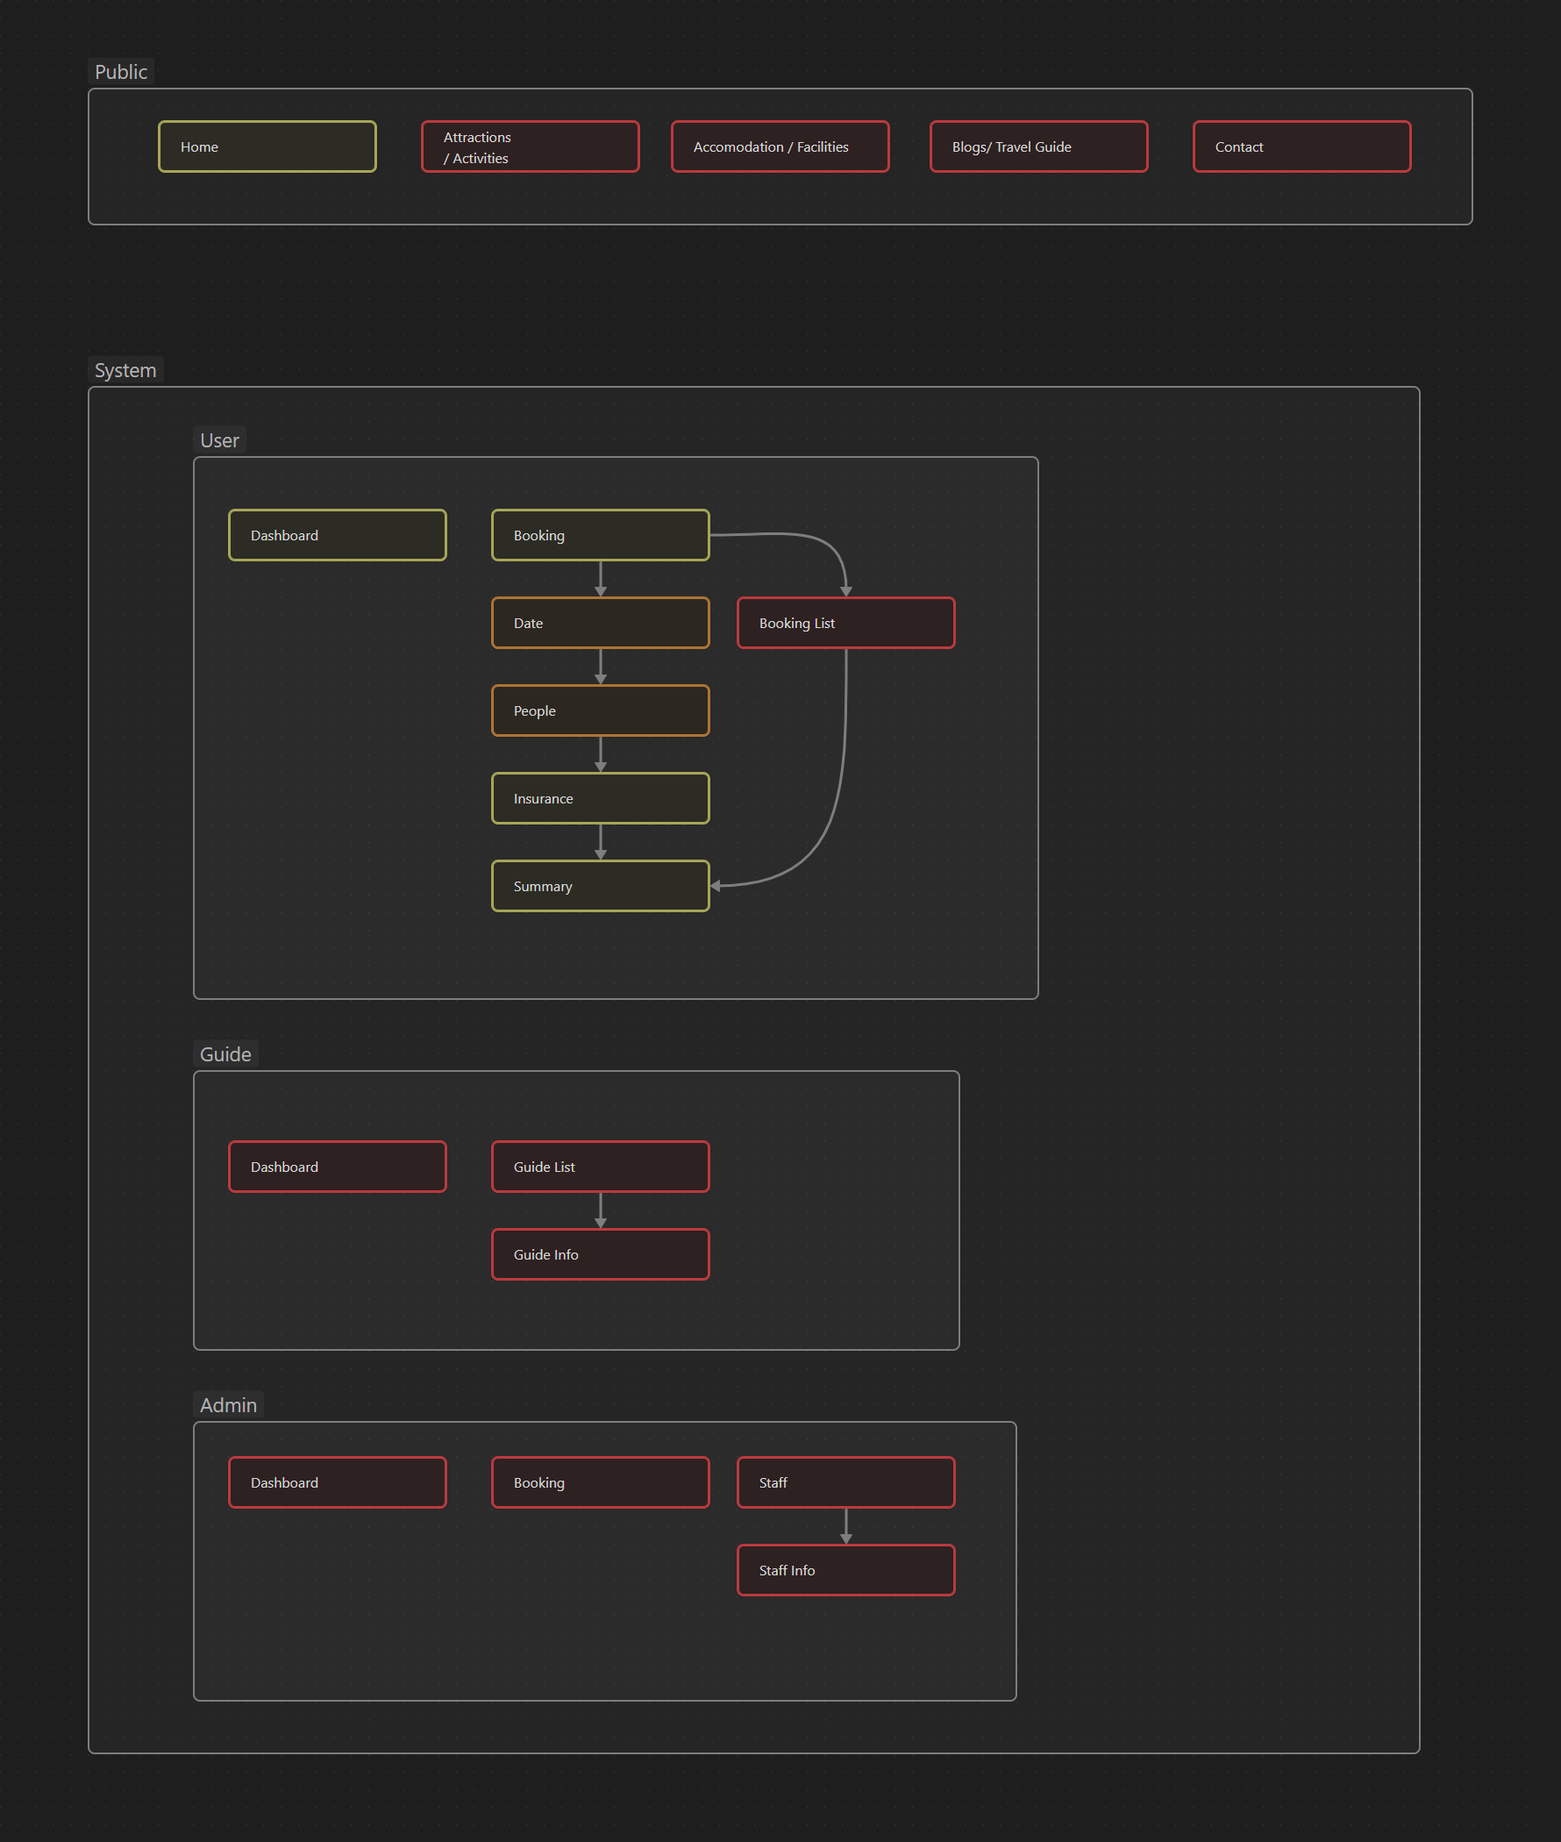
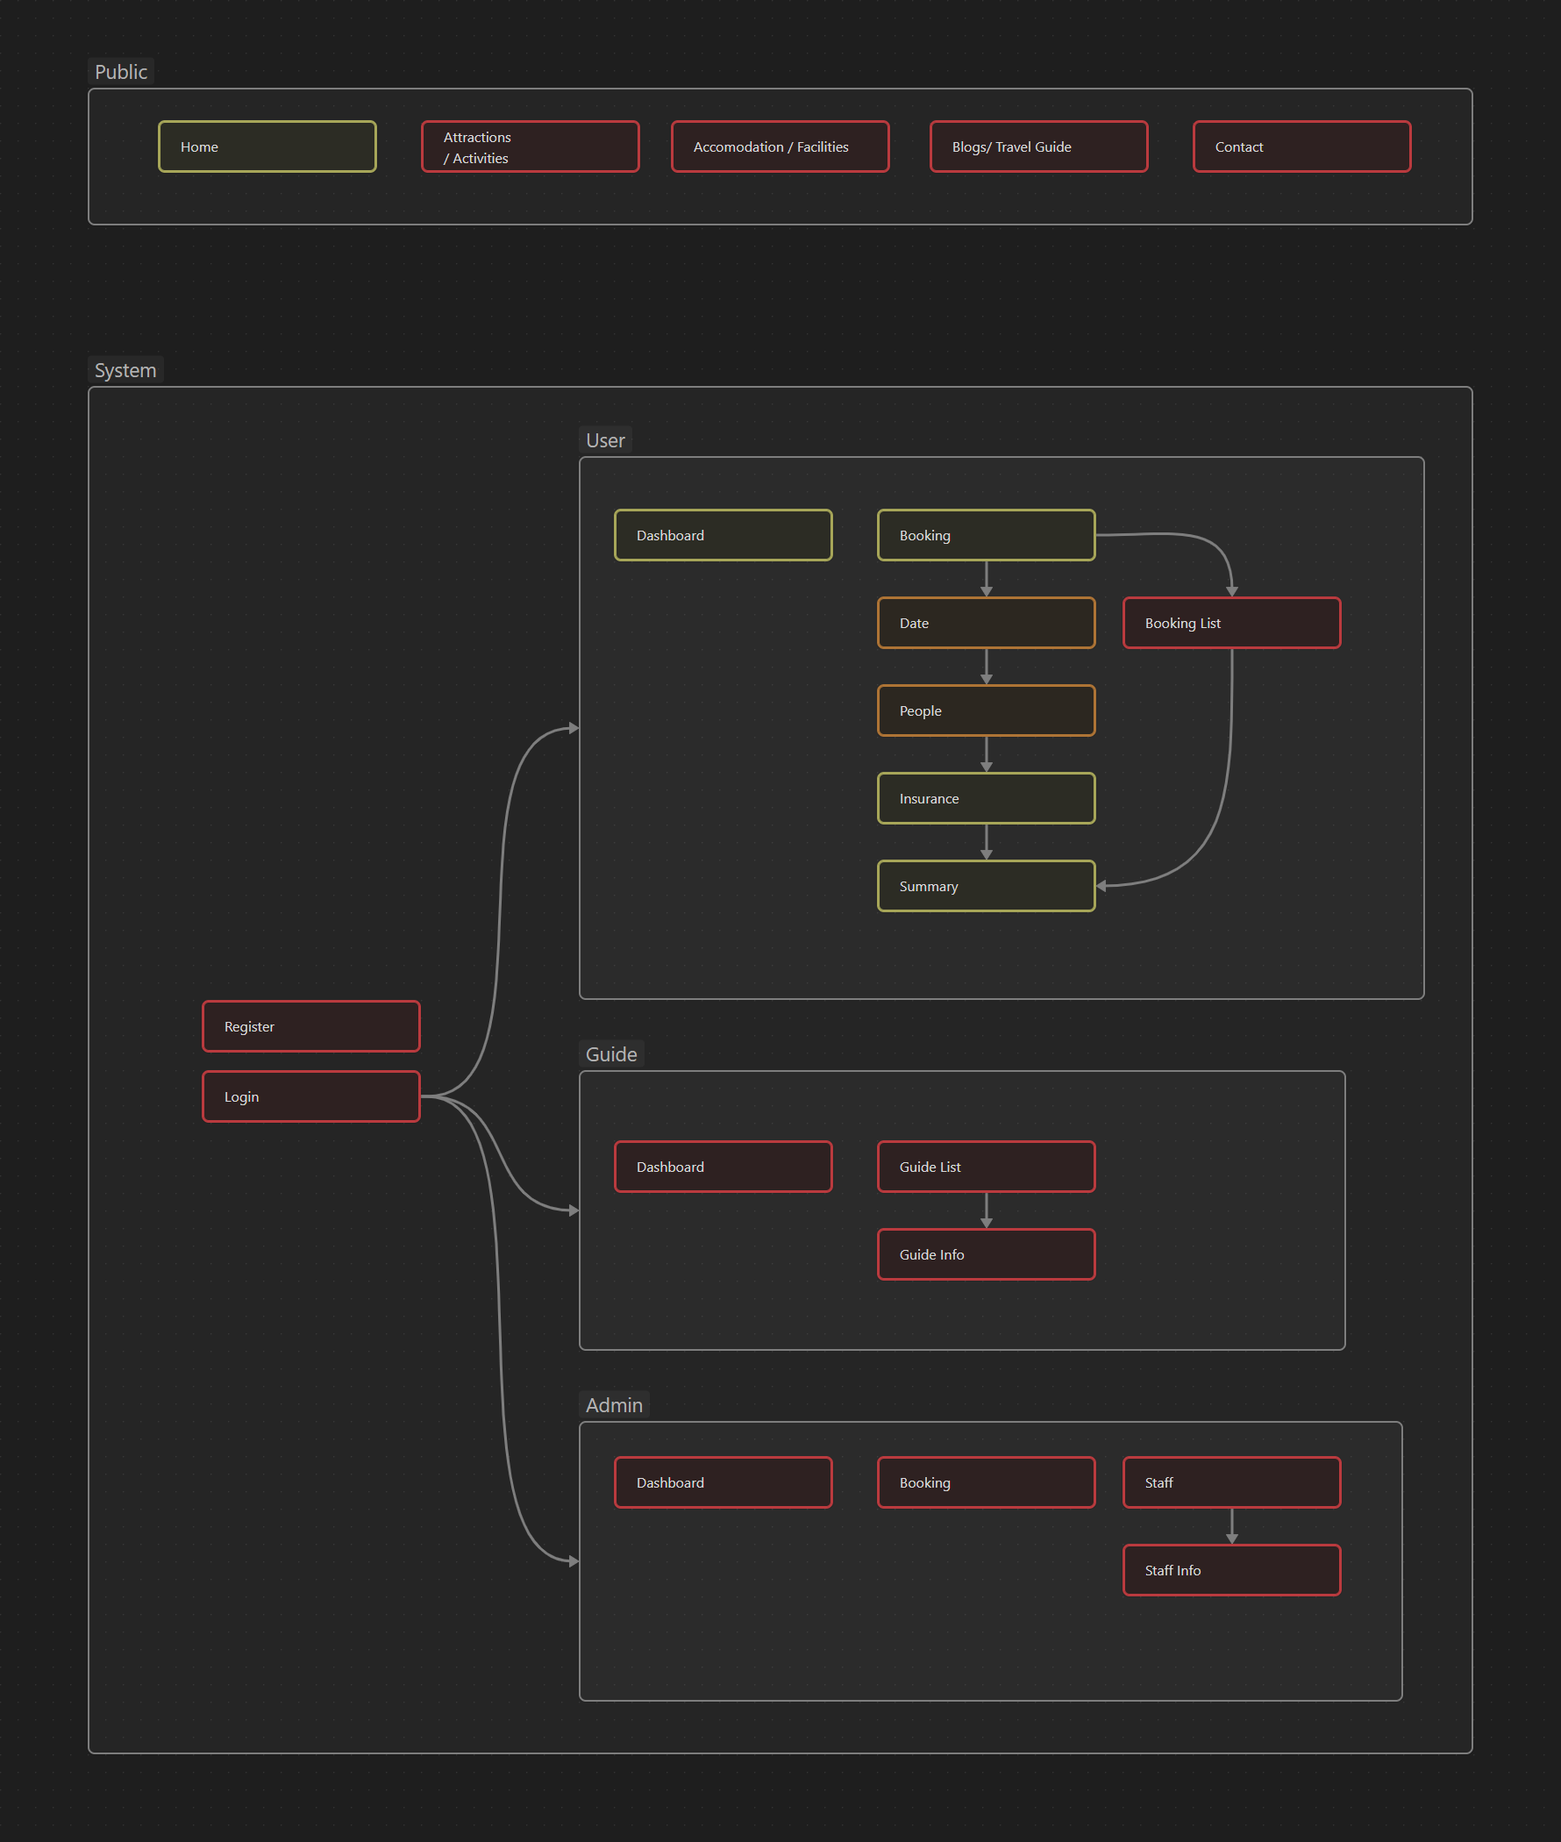
forgot to put register login

diff --git a/views/system/user/book/step2.php b/views/system/user/book/step2.php
@@ -68,50 +68,69 @@
                       </div>
                     </div>
                     <?php
+                    // Query to fetch user details (only once)
+                    $sql = "SELECT u.username, u.email, ud.name, ud.ic, ud.phone, ud.address
+        FROM users u
+        LEFT JOIN user_details ud ON u.id = ud.user_id
+        WHERE u.id = '1'";
+                    $result = $conn->query($sql);
+                    $row = $result->fetch_assoc();
+
+                    // Get the booking people count
                     $count = $_SESSION['booking']['people_count'];
+
+                    // Loop through all people for the booking
                     for ($i = 1; $i <= $count; $i++) {
 
+                      // If it's the first iteration, use data from the database
+                      if ($i == 1) {
+                        $name = isset($_SESSION['booking']['people'][$i]['name']) ? $_SESSION['booking']['people'][$i]['name'] : $row['name'];
+                        $ic = isset($_SESSION['booking']['people'][$i]['ic']) ? $_SESSION['booking']['people'][$i]['ic'] : $row['ic'];
+                        $phone = isset($_SESSION['booking']['people'][$i]['phone']) ? $_SESSION['booking']['people'][$i]['phone'] : $row['phone'];
+                        $email = isset($_SESSION['booking']['people'][$i]['email']) ? $_SESSION['booking']['people'][$i]['email'] : $row['email'];
+                        $address = isset($_SESSION['booking']['people'][$i]['address']) ? $_SESSION['booking']['people'][$i]['address'] : $row['address'];
+                      } else {
+                        // For subsequent iterations, use session data
+                        $name = isset($_SESSION['booking']['people'][$i]['name']) ? $_SESSION['booking']['people'][$i]['name'] : '';
+                        $ic = isset($_SESSION['booking']['people'][$i]['ic']) ? $_SESSION['booking']['people'][$i]['ic'] : '';
+                        $phone = isset($_SESSION['booking']['people'][$i]['phone']) ? $_SESSION['booking']['people'][$i]['phone'] : '';
+                        $email = isset($_SESSION['booking']['people'][$i]['email']) ? $_SESSION['booking']['people'][$i]['email'] : '';
+                        $address = isset($_SESSION['booking']['people'][$i]['address']) ? $_SESSION['booking']['people'][$i]['address'] : '';
+                      }
+
                       ?>
+
                       <div class="multisteps-form__content">
                         <div id="form-container">
                           <div class="row mt-3 form-group">
                             <div class="col-12 col-sm-8 mt-4 mt-sm-0 text-start">
                               <label>Name</label>
-                              <input class="  form-control mb-3" type="text" placeholder="Eg. Michael"
-                                name="name-<?php echo $i ?>" 
-                                value="<?php echo isset($_SESSION['booking']['people'][$i]['name']) ? $_SESSION['booking']['people'][$i]['name'] : ''; ?>"
-                                >
+                              <input class="form-control mb-3" type="text" placeholder="Eg. Michael"
+                                name="name-<?php echo $i ?>" value="<?php echo htmlspecialchars($name); ?>">
+
                               <label>Identity Card Number</label>
-                              <input class=" form-control mb-3" type="text" placeholder="Eg. Tomson"
-                                name="ic-<?php echo $i ?>"
-                                value="<?php echo isset($_SESSION['booking']['people'][$i]['ic']) ? $_SESSION['booking']['people'][$i]['ic'] : ''; ?>"
-                                >
+                              <input class="form-control mb-3" type="text" placeholder="Eg. Tomson"
+                                name="ic-<?php echo $i ?>" value="<?php echo htmlspecialchars($ic); ?>">
+
                               <label>Phone</label>
-                              <input class="  form-control" type="text" placeholder="011 23141414"
-                                name="phone-<?php echo $i ?>"
-                                value="<?php echo isset($_SESSION['booking']['people'][$i]['phone']) ? $_SESSION['booking']['people'][$i]['phone'] : ''; ?>"
-                                >
+                              <input class="form-control" type="text" placeholder="011 23141414"
+                                name="phone-<?php echo $i ?>" value="<?php echo htmlspecialchars($phone); ?>">
+
                               <label>Email Address</label>
-                              <input class="  form-control" type="text" placeholder="Eg. soft@dashboard.com"
-                                name="email-<?php echo $i ?>"
-                                value="<?php echo isset($_SESSION['booking']['people'][$i]['email']) ? $_SESSION['booking']['people'][$i]['email'] : ''; ?>"
-                                >
+                              <input class="form-control" type="text" placeholder="Eg. soft@dashboard.com"
+                                name="email-<?php echo $i ?>" value="<?php echo htmlspecialchars($email); ?>">
+
                               <label>Home Address</label>
-                              <input class=" form-control" type="text" placeholder="Eg. soft@dashboard.com"
-                                name="address-<?php echo $i ?>"
-                                value="<?php echo isset($_SESSION['booking']['people'][$i]['address']) ? $_SESSION['booking']['people'][$i]['address'] : ''; ?>"
-                                >
+                              <input class="form-control" type="text" placeholder="Eg. soft@dashboard.com"
+                                name="address-<?php echo $i ?>" value="<?php echo htmlspecialchars($address); ?>">
                             </div>
                           </div>
                         </div>
-                        <!-- 
-                      <div class="button-row d-flex mt-4">
-                        <button class="btn bg-gradient-dark ms-auto mb-0 js-btn-next" type="button" title="Next"
-                          onclick="addForm()">Add</button>
-                      </div> -->
                       </div>
 
-                    <?php } ?>
+                      <?php
+                    }
+                    ?>
                     <div class="button-row d-flex mt-4">
                       <button type="submit" class="btn bg-gradient-dark ms-auto mb-0  "
                         name="confirmpeople">Save</button>

diff --git a/views/system/template/script.php b/views/system/template/script.php
@@ -12,87 +12,87 @@
   <script src="<?php echo $rootPath; ?>/assets/js/plugins/jquery-3.7.1.js"></script>
   <script src="<?php echo $rootPath; ?>/assets/js/plugins/moment.min.js"></script>
   <script>
-    var ctx1 = document.getElementById("chart-line").getContext("2d");
+    // var ctx1 = document.getElementById("chart-line").getContext("2d");
 
-    var gradientStroke1 = ctx1.createLinearGradient(0, 230, 0, 50);
+    // var gradientStroke1 = ctx1.createLinearGradient(0, 230, 0, 50);
 
-    gradientStroke1.addColorStop(1, 'rgba(94, 114, 228, 0.2)');
-    gradientStroke1.addColorStop(0.2, 'rgba(94, 114, 228, 0.0)');
-    gradientStroke1.addColorStop(0, 'rgba(94, 114, 228, 0)');
-    new Chart(ctx1, {
-      type: "line",
-      data: {
-        labels: ["Apr", "May", "Jun", "Jul", "Aug", "Sep", "Oct", "Nov", "Dec"],
-        datasets: [{
-          label: "Mobile apps",
-          tension: 0.4,
-          borderWidth: 0,
-          pointRadius: 0,
-          borderColor: "#5e72e4",
-          backgroundColor: gradientStroke1,
-          borderWidth: 3,
-          fill: true,
-          data: [50, 40, 300, 220, 500, 250, 400, 230, 500],
-          maxBarThickness: 6
+    // gradientStroke1.addColorStop(1, 'rgba(94, 114, 228, 0.2)');
+    // gradientStroke1.addColorStop(0.2, 'rgba(94, 114, 228, 0.0)');
+    // gradientStroke1.addColorStop(0, 'rgba(94, 114, 228, 0)');
+    // new Chart(ctx1, {
+    //   type: "line",
+    //   data: {
+    //     labels: ["Apr", "May", "Jun", "Jul", "Aug", "Sep", "Oct", "Nov", "Dec"],
+    //     datasets: [{
+    //       label: "Mobile apps",
+    //       tension: 0.4,
+    //       borderWidth: 0,
+    //       pointRadius: 0,
+    //       borderColor: "#5e72e4",
+    //       backgroundColor: gradientStroke1,
+    //       borderWidth: 3,
+    //       fill: true,
+    //       data: [50, 40, 300, 220, 500, 250, 400, 230, 500],
+    //       maxBarThickness: 6
 
-        }],
-      },
-      options: {
-        responsive: true,
-        maintainAspectRatio: false,
-        plugins: {
-          legend: {
-            display: false,
-          }
-        },
-        interaction: {
-          intersect: false,
-          mode: 'index',
-        },
-        scales: {
-          y: {
-            grid: {
-              drawBorder: false,
-              display: true,
-              drawOnChartArea: true,
-              drawTicks: false,
-              borderDash: [5, 5]
-            },
-            ticks: {
-              display: true,
-              padding: 10,
-              color: '#fbfbfb',
-              font: {
-                size: 11,
-                family: "Open Sans",
-                style: 'normal',
-                lineHeight: 2
-              },
-            }
-          },
-          x: {
-            grid: {
-              drawBorder: false,
-              display: false,
-              drawOnChartArea: false,
-              drawTicks: false,
-              borderDash: [5, 5]
-            },
-            ticks: {
-              display: true,
-              color: '#ccc',
-              padding: 20,
-              font: {
-                size: 11,
-                family: "Open Sans",
-                style: 'normal',
-                lineHeight: 2
-              },
-            }
-          },
-        },
-      },
-    });
+    //     }],
+    //   },
+    //   options: {
+    //     responsive: true,
+    //     maintainAspectRatio: false,
+    //     plugins: {
+    //       legend: {
+    //         display: false,
+    //       }
+    //     },
+    //     interaction: {
+    //       intersect: false,
+    //       mode: 'index',
+    //     },
+    //     scales: {
+    //       y: {
+    //         grid: {
+    //           drawBorder: false,
+    //           display: true,
+    //           drawOnChartArea: true,
+    //           drawTicks: false,
+    //           borderDash: [5, 5]
+    //         },
+    //         ticks: {
+    //           display: true,
+    //           padding: 10,
+    //           color: '#fbfbfb',
+    //           font: {
+    //             size: 11,
+    //             family: "Open Sans",
+    //             style: 'normal',
+    //             lineHeight: 2
+    //           },
+    //         }
+    //       },
+    //       x: {
+    //         grid: {
+    //           drawBorder: false,
+    //           display: false,
+    //           drawOnChartArea: false,
+    //           drawTicks: false,
+    //           borderDash: [5, 5]
+    //         },
+    //         ticks: {
+    //           display: true,
+    //           color: '#ccc',
+    //           padding: 20,
+    //           font: {
+    //             size: 11,
+    //             family: "Open Sans",
+    //             style: 'normal',
+    //             lineHeight: 2
+    //           },
+    //         }
+    //       },
+    //     },
+    //   },
+    // });
   </script>
   <script>
     var win = navigator.platform.indexOf('Win') > -1;

diff --git a/views/system/user/book/step3.php b/views/system/user/book/step3.php
@@ -57,7 +57,7 @@
             <!--form panels-->
             <div class="row mb-lg-7">
               <div class="col-12 col-lg-8 m-auto">
-                <form class="multisteps-form__form" enctype="multipart/form-data" method="POST">
+                <form class=" " enctype="multipart/form-data" method="POST">
                   <!--single form panel-->
                   <div class="card p-3 border-radius-xl bg-white" data-animation="FadeIn">
                     <div class="row text-center">
@@ -69,7 +69,7 @@
                     <div class="multisteps-form__content">
                       <div class="row mt-4">
                         <div class="col-sm-3 ms-auto">
-                          <input type="checkbox" class="btn-check" id="btncheck1">
+                          <input type="checkbox" class="btn-check" id="btncheck1"  name="activities[]" value="Hiking">
                           <label class="btn btn-lg btn-outline-secondary border-2 px-6 py-5" for="btncheck1">
                             <svg class="text-dark" width="20px" height="20px" viewBox="0 0 40 40"
                               xmlns="http://www.w3.org/2000/svg">
@@ -93,10 +93,10 @@
                               </g>
                             </svg>
                           </label>
-                          <h6>Design</h6>
+                          <h6>Hiking</h6>
                         </div>
                         <div class="col-sm-3">
-                          <input type="checkbox" class="btn-check" id="btncheck2">
+                          <input type="checkbox" class="btn-check" id="btncheck2"  name="activities[]" value="Picnicking">
                           <label class="btn btn-lg btn-outline-secondary border-2 px-6 py-5" for="btncheck2">
                             <svg class="text-dark" width="20px" height="20px" viewBox="0 0 42 42"
                               xmlns="http://www.w3.org/2000/svg">
@@ -117,10 +117,10 @@
                               </g>
                             </svg>
                           </label>
-                          <h6>Code</h6>
+                          <h6>Picnicking</h6>
                         </div>
                         <div class="col-sm-3 me-auto">
-                          <input type="checkbox" class="btn-check" id="btncheck3">
+                          <input type="checkbox" class="btn-check" id="btncheck3" name="activities[]" value="Swimming"  >
                           <label class="btn btn-lg btn-outline-secondary border-2 px-6 py-5" for="btncheck3">
                             <svg class="text-dark" width="20px" height="20px" viewBox="0 0 40 40"
                               xmlns="http://www.w3.org/2000/svg">
@@ -138,7 +138,7 @@
                               </g>
                             </svg>
                           </label>
-                          <h6>Technology</h6>
+                          <h6>Swimming</h6>
                         </div>
                       </div>
                     </div>
@@ -157,7 +157,12 @@
                       <button type="submit" class="btn btn-primary w-100">Next</button>
                     </div>
                   </div> -->
+                  <div class="button-row d-flex mt-4">
+                      <button type="submit" class="btn bg-gradient-dark ms-auto mb-0  "
+                        name="confirminsurance">Save</button>
 
+
+                    </div>
               </div>
 
             </div>

diff --git a/index.php b/index.php
@@ -67,6 +67,7 @@ function book_3()
     include('includes/server.php');
     checkLogin();
     checkStepRedirect(3);
+    echo "<script>console.log(" . json_encode($_SESSION['booking']) . ");</script>";
 
     include 'views/system/user/book/step3.php';
 }
@@ -76,6 +77,7 @@ function book_4()
     include('includes/server.php');
     checkLogin();
     checkStepRedirect(4);
+    echo "<script>console.log(" . json_encode($_SESSION['booking']) . ");</script>";
 
     include 'views/system/user/book/step4.php';
 }
@@ -127,7 +129,8 @@ function checkStepRedirect($required_step) {
             'people_count' => null,
             'session' => null,
             'people' => null,
-            'insurance' => null
+            'insurance' => null,
+            'activity' => null
         ];
     }
 

diff --git a/views/system/template/footer.php b/views/system/template/footer.php
@@ -3,9 +3,7 @@
           <div class="row align-items-center justify-content-lg-between">
             <div class="col-lg-6 mb-lg-0 mb-4">
               <div class="copyright text-center text-sm text-muted text-lg-start">
-                © <script>
-                  document.write(new Date().getFullYear())
-                </script>,
+                © <?php echo date("Y"); ?>,
                 made with <i class="fa fa-heart"></i> by
                 <a href="https://www.creative-tim.com" class="font-weight-bold" target="_blank">Creative Tim</a>
                 for a better web.

diff --git a/includes/functions/booking_3.php b/includes/functions/booking_3.php
@@ -1,0 +1,9 @@
+<?php
+
+
+if ( isset($_POST['confirminsurance'])) {
+    echo "<script>console.log(" . json_encode($_POST) . ");</script>";
+ 
+    $_SESSION['booking']['acivity'] =$_POST['activities'];
+
+}

diff --git a/includes/server.php b/includes/server.php
@@ -14,3 +14,4 @@ $dotenv->load();
 
  include('functions/booking_1.php');
  include('functions/booking_2.php');
+ include('functions/booking_3.php');
